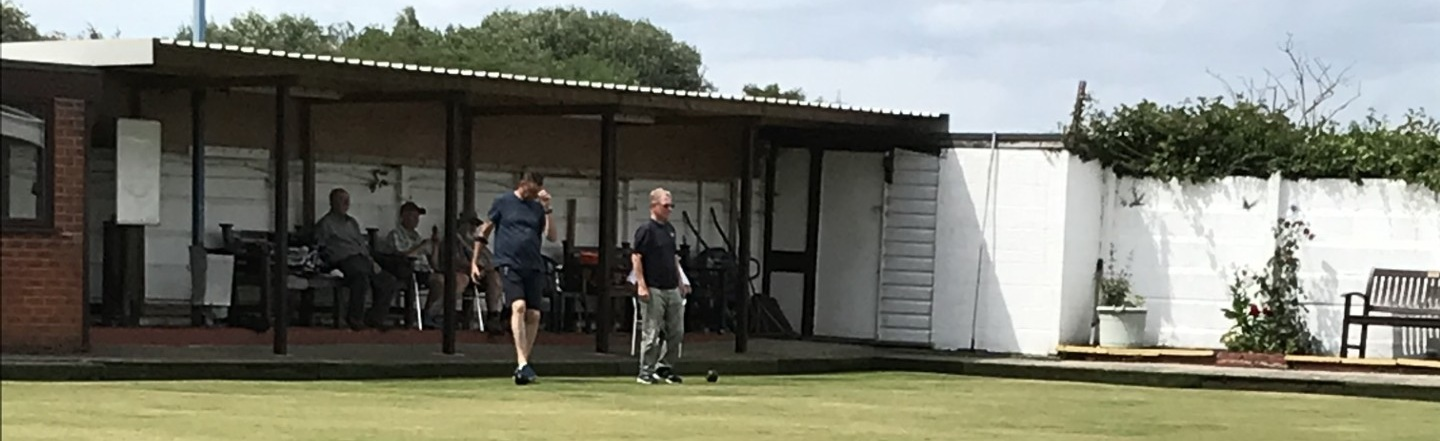
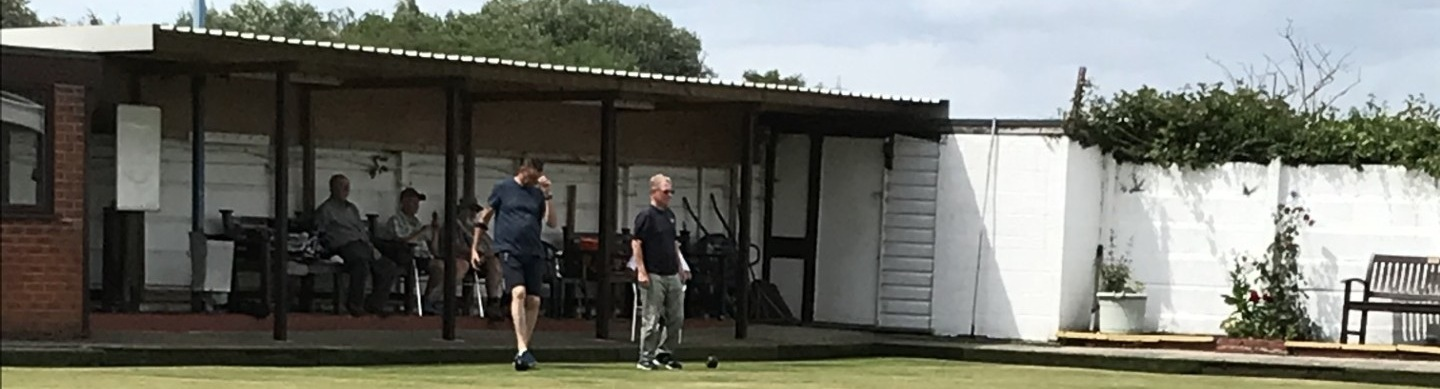
fixing

diff --git a/styles.css b/styles.css
@@ -2,7 +2,7 @@ body{
     font-family: "Open Sans", sans-serif;
     background-color: rgb(81, 193, 191);
     /* sets body styles */
-    
+
 }
 h1{
     font-weight: bold;
@@ -43,7 +43,7 @@ img{
         /* sets size of cask image*/
 }
 #bowling{
-    width: 60%;
+    width: 80%;
     height: auto;
     margin-left: auto;
     margin-right: auto;
@@ -57,6 +57,7 @@ img{
     height: auto;
     display: flex;
     flex-wrap: wrap;
+    justify-self: left;
         /* sets size of cask image*/
 }
 #logo{
